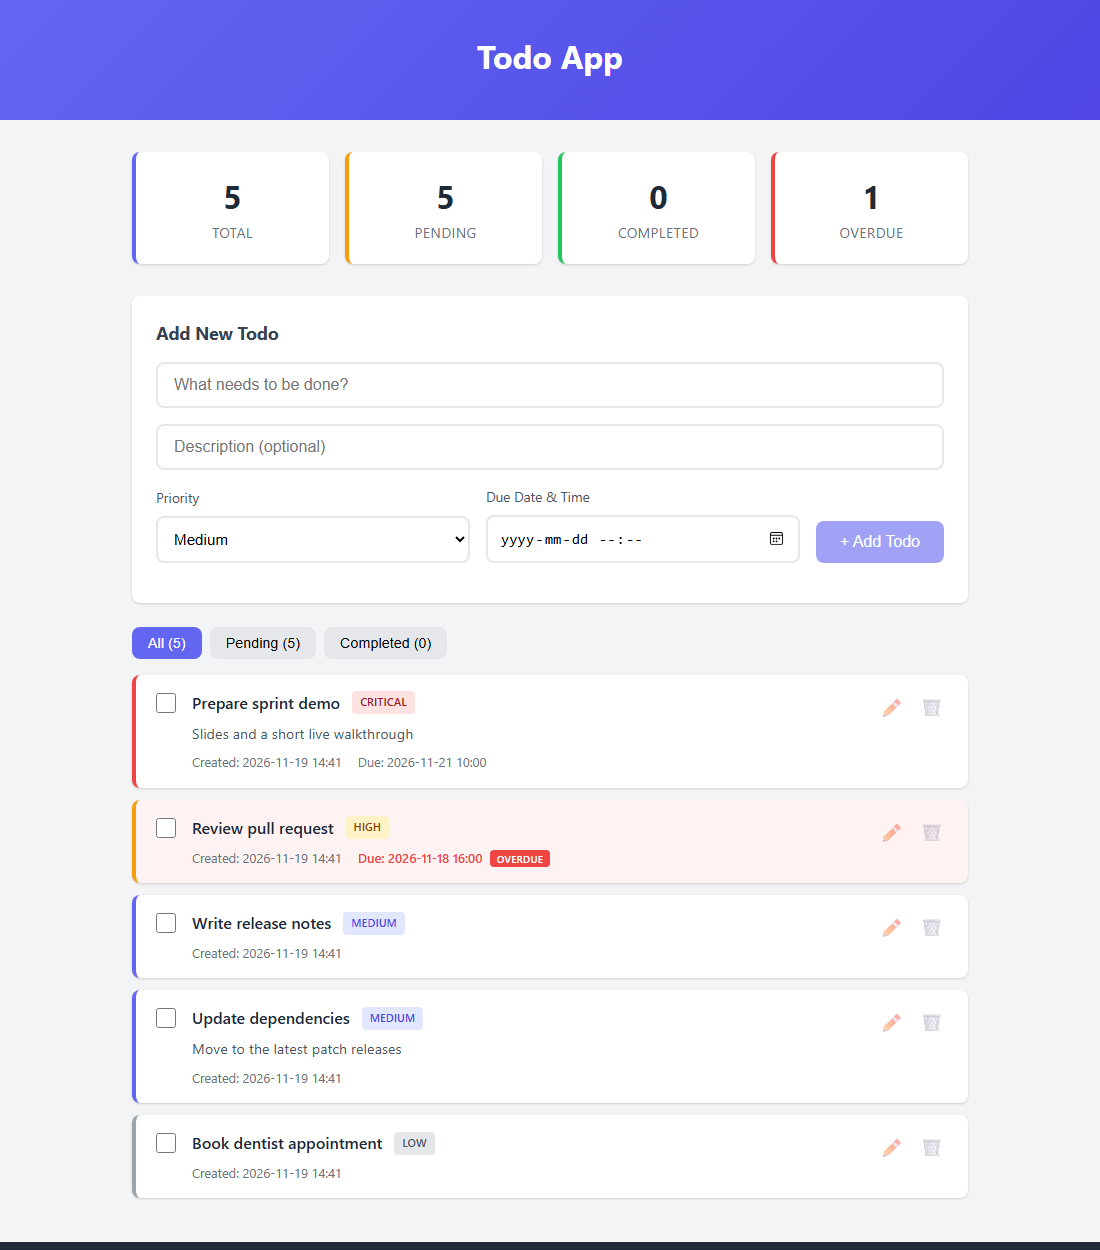
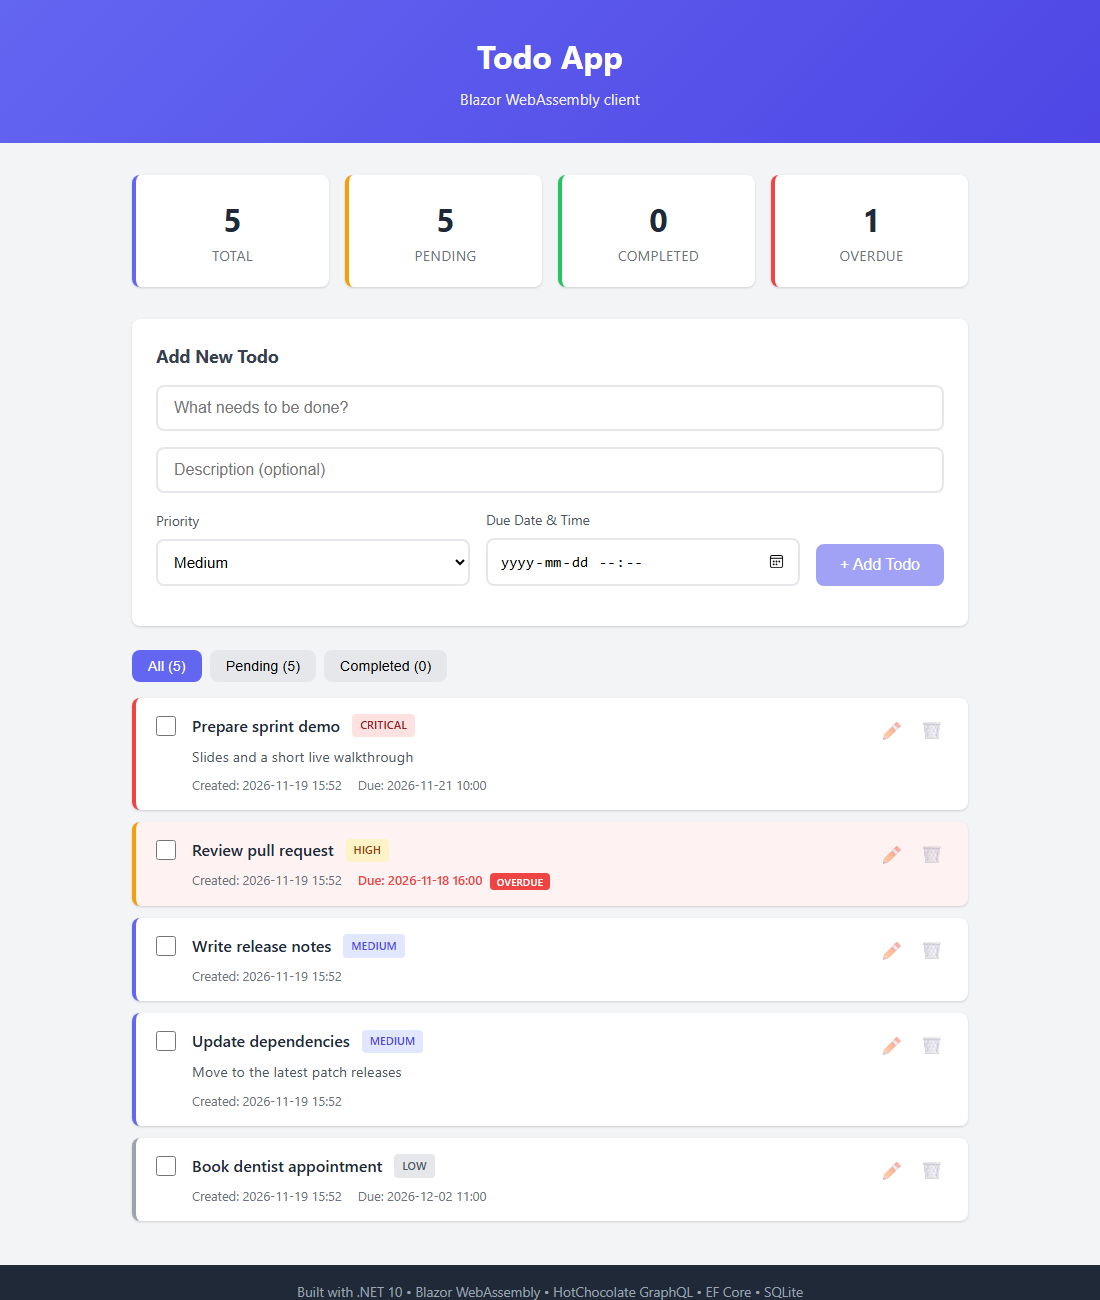
Document both clients and label each in its header
The two clients share a stylesheet and would otherwise look identical, so
each header now names the client. The README covers running and testing
the React client and the reasoning behind its design.

diff --git a/README.md b/README.md
@@ -2,11 +2,20 @@
 
 [![CI](https://github.com/aabom/Todo-App/actions/workflows/ci.yml/badge.svg)](https://github.com/aabom/Todo-App/actions/workflows/ci.yml)
 
-A todo application built as a small but complete example of **Clean Architecture** in .NET 10.
-A **GraphQL** API (HotChocolate) stores todos in **SQLite** through EF Core. A
-**Blazor WebAssembly** front end talks to that API through a hand-written GraphQL client.
+A todo application built as a small but complete example of **Clean Architecture** in .NET 10,
+with a **headless GraphQL API** and **two independent front ends** on top of it:
 
-![Screenshot of the app](docs/screenshot.png)
+- **TodoApp.Api:** a GraphQL API (HotChocolate) that stores todos in SQLite through EF Core.
+- **TodoApp.WebReact:** a **React 19 + TypeScript** client built with Vite.
+- **TodoApp.Web:** a **Blazor WebAssembly** client written in C#.
+
+Both clients offer the same features and the same UI, and talk to the API only through GraphQL.
+That is the point of the headless setup: the API knows nothing about who is calling it, so a
+client can be added or replaced without touching the backend.
+
+| React client | Blazor client |
+|--------------|---------------|
+| ![The React client](docs/screenshot-react.png) | ![The Blazor client](docs/screenshot.png) |
 
 ## What it does
 
@@ -20,55 +29,77 @@ A **GraphQL** API (HotChocolate) stores todos in **SQLite** through EF Core. A
 
 ## Running it
 
-**Prerequisite:** the [.NET 10 SDK](https://dotnet.microsoft.com/download). The version is
-pinned in `global.json`.
+**Prerequisites:**
+- The [.NET 10 SDK](https://dotnet.microsoft.com/download), pinned in `global.json`.
+- [Node.js 24](https://nodejs.org/) for the React client, pinned in `src/TodoApp.WebReact/.nvmrc`.
+
+Start the API first; either client (or both at once) can then run against it.
 
 ```bash
-# Terminal 1: the API, at http://localhost:5000/graphql
+# The API, at http://localhost:5000/graphql
 cd src/TodoApp.Api
 dotnet run
+```
 
-# Terminal 2: the front end, at http://localhost:5001
+```bash
+# The React client, at http://localhost:5173
+cd src/TodoApp.WebReact
+npm install
+npm run dev
+```
+
+```bash
+# The Blazor client, at http://localhost:5001
 cd src/TodoApp.Web
 dotnet run
 ```
 
 The API creates `todo.db` on first start. Opening `http://localhost:5000/graphql` in a browser
-loads Nitro, HotChocolate's GraphQL IDE, where the schema can be explored and queried.
+loads Nitro, HotChocolate's GraphQL IDE, where the schema can be explored and queried. The React
+client finds the API through `VITE_API_URL` (see `.env.example`). It defaults to
+`http://localhost:5000`.
 
 ## Running the tests
 
 ```bash
-dotnet test
-```
+dotnet test                 # API, domain, persistence and the Blazor client
 
-The tests cover every layer:
+cd src/TodoApp.WebReact
+npm test                    # the React client
+npm run lint                # ESLint, type-aware rules
+npm run typecheck           # tsc in strict mode
+```
 
 | Area | What is tested | How |
 |------|----------------|-----|
-| Domain | Title and description rules, completion, overdue logic | Plain unit tests |
-| Infrastructure | Sort order, overdue queries, UTC round-trip of dates | Real SQLite, in memory |
-| Application | Partial updates, clearing fields, statistics against the clock | `FakeTimeProvider` + SQLite |
+| Domain | Title and description rules, completion, overdue logic | xUnit |
+| Infrastructure | Sort order, overdue queries, UTC round-trip of dates | xUnit, real SQLite in memory |
+| Application | Partial updates, clearing fields, statistics against the clock | xUnit, `FakeTimeProvider` + SQLite |
 | API | The GraphQL schema the server exposes, including error shape | HotChocolate request executor |
-| Web | The Blazor page: ordering after adding, what an edit sends | bUnit |
+| Blazor client | Ordering after adding, what an edit sends, error reporting | bUnit |
+| React client | The same behaviour as the Blazor tests, plus time zones and filtering | Vitest + React Testing Library |
+| React GraphQL layer | Data, validation errors, HTTP failures | Vitest with a stubbed `fetch` |
 
-CI runs the build and the tests on every pull request and every push to `main`. Warnings are errors, and a
-package with a known vulnerability fails the build.
+CI runs two jobs on every pull request and every push to `main`:
+- **.NET:** builds with warnings as errors, and fails on a package with a known vulnerability.
+- **React:** runs `npm audit`, ESLint, `tsc`, Vitest and the production build.
 
 ## Architecture
 
 ```mermaid
 flowchart TB
-    subgraph Presentation
+    subgraph Clients
         direction LR
+        React["<b>TodoApp.WebReact</b><br/>React · TypeScript"]
         Web["<b>TodoApp.Web</b><br/>Blazor WebAssembly"]
-        Api["<b>TodoApp.Api</b><br/>HotChocolate GraphQL"]
     end
 
+    Api["<b>TodoApp.Api</b><br/>HotChocolate GraphQL"]
     App["<b>TodoApp.Application</b><br/>TodoService · DTOs"]
     Dom["<b>TodoApp.Domain</b><br/>TodoItem · ITodoRepository"]
     Inf["<b>TodoApp.Infrastructure</b><br/>EF Core · SQLite"]
 
+    React -- "GraphQL over HTTP" --> Api
     Web -- "GraphQL over HTTP" --> Api
     Api --> App
     App --> Dom
@@ -86,12 +117,20 @@ src/
 ├── TodoApp.Application/     Use cases (TodoService) and DTOs.
 ├── TodoApp.Infrastructure/  EF Core DbContext and repository on SQLite.
 ├── TodoApp.Api/             GraphQL queries, mutations, types and error mapping.
-└── TodoApp.Web/             Blazor WebAssembly UI and a small GraphQL client.
+├── TodoApp.WebReact/        React + TypeScript client.
+│   └── src/
+│       ├── api/             Typed GraphQL client and the TodoApi operations.
+│       ├── hooks/           useTodos: the page's data and operations.
+│       ├── components/      Presentational components.
+│       └── lib/             Pure helpers: dates, filters, building an update.
+└── TodoApp.Web/             Blazor WebAssembly client and its GraphQL client.
 tests/
-└── TodoApp.Tests/           One test project, one folder per layer.
+└── TodoApp.Tests/           .NET tests, one folder per layer. React tests sit next to their code.
 ```
 
 ## Design decisions
+
+### API and domain
 
 **A rich domain model.** `TodoItem` has private setters, and every change goes through a method.
 The rules therefore live in one place and cannot be bypassed: a title is required and trimmed,
@@ -112,28 +151,63 @@ the same once they reach C#. Sending both a due date and `clearDueDate` is rejec
 `TimeProvider` and passes it in, so overdue logic is deterministic and the tests control the
 clock.
 
-**All times are UTC.** The client converts its local input to UTC before sending it. SQLite
-stores no time zone, so value converters in `TodoDbContext` mark dates as UTC when they are
-read back. The UTC marker is what makes GraphQL serialize them with a `Z` suffix, which in turn
-lets the browser show them in local time.
+**All times are UTC.** The clients convert local input to UTC before sending it and convert back
+only for display. SQLite stores no time zone, so value converters in `TodoDbContext` mark dates
+as UTC when they are read back. The UTC marker is what makes GraphQL serialize them with a `Z`
+suffix.
 
-**The server owns the sort order.** After adding or editing a todo, the page reloads the list
+**The server owns the sort order.** After adding or editing a todo, both clients reload the list
 rather than guessing where the item belongs. The sort is applied in SQL. Items without a due date
 are sorted last explicitly, because SQLite puts `NULL` first.
-
-**A hand-written GraphQL client.** The front end sends the queries as plain strings through a
-small `GraphQLService` rather than using a generated client. With seven operations, the code
-stays easy to read and has no build-time code generation.
 
 **SQLite and `EnsureCreated`.** The database is a single file, so the app runs with no setup.
 Because this is a demo with one table and no deployed data to preserve, the schema is created
 with `EnsureCreated` rather than migrations. A real deployment would switch to migrations.
 
-**The UI reuses the domain's `Priority` enum.** The Web project references the Domain project
-for that single enum, so the two cannot drift apart. Nothing else crosses that boundary.
+**CORS lists the clients by origin.** `Cors:AllowedOrigins` in the API's `appsettings.json`
+names the React dev server (`localhost:5173`) and the Blazor client (`localhost:5001`). Nothing
+else may call the API from a browser.
 
-**CORS is limited to the front end's origin.** It is configured in `Cors:AllowedOrigins` in the
-API's `appsettings.json`.
+### React client
+
+**A small typed GraphQL client rather than Apollo or urql.** `createGraphQLClient` is a single
+function: it POSTs one operation, returns `data` typed by the caller and throws on `errors`.
+The app has six operations and no need for a normalised cache, because the server owns the sort
+order and the list is reloaded after a change anyway. A full client would add weight without
+solving a problem this app has. If the schema grew, the next step would be to generate the
+TypeScript types from it with GraphQL Code Generator. Today they are written by hand in
+`api/types.ts` and could drift from the schema.
+
+**Validation errors keep their shape.** `GraphQLRequestError` holds every error the API returned
+and exposes `isValidationError` and `invalidFields`. The `VALIDATION_ERROR` message, such as
+"Title cannot be empty.", is what the user sees.
+
+**One seam for tests.** Components never call `fetch`. They get a `TodoApi` interface through
+`App`'s props. In the app that is the GraphQL implementation; in tests it is `FakeTodoApi`,
+which sorts like the server and records what the UI sends. Tests therefore assert on the input
+the API would receive, such as `clearDueDate: true`, rather than on implementation details.
+
+**State lives in one hook.** `useTodos` holds the list, the statistics, loading and error state,
+and the operations. Components stay presentational. One page does not need a global store.
+
+**TypeScript as strict as it goes.** On top of `strict`, the project uses
+`noUncheckedIndexedAccess` and `exactOptionalPropertyTypes`. ESLint runs typescript-eslint's
+`strictTypeChecked` rules and the React Hooks rules. CI fails on any warning.
+
+**Tests run in a fixed time zone.** Vitest runs in `Europe/Stockholm`, which is offset from UTC.
+That proves dates are converted between UTC and local time, and the results are the same on a
+developer machine and in CI.
+
+**The same CSS as the Blazor client.** Both clients render the same markup classes from the same
+stylesheet. The difference between them is the code, not the look.
+
+### Blazor client
+
+**A hand-written GraphQL client here too.** `GraphQLService` sends the queries as plain strings
+and deserialises `data`. It follows the same reasoning as the React client.
+
+**It reuses the domain's `Priority` enum.** The Blazor project references the Domain project for
+that single enum, so the two cannot drift apart. Nothing else crosses that boundary.
 
 ## Deliberately out of scope
 
@@ -177,9 +251,11 @@ mutation($id: UUID!) {
 
 | Component | Technology |
 |-----------|------------|
-| Runtime | .NET 10 |
+| Runtime | .NET 10, Node.js 24 |
 | GraphQL server | HotChocolate 15 |
 | ORM and database | EF Core 10, SQLite |
-| Front end | Blazor WebAssembly |
-| Tests | xUnit v3, bUnit, Microsoft.Extensions.TimeProvider.Testing |
+| React client | React 19, TypeScript 6 (strict), Vite 8 |
+| Blazor client | Blazor WebAssembly |
+| Tests | xUnit v3, bUnit, Vitest, React Testing Library |
+| Quality | ESLint (typescript-eslint, strict type-checked), warnings as errors in .NET |
 | CI | GitHub Actions |
